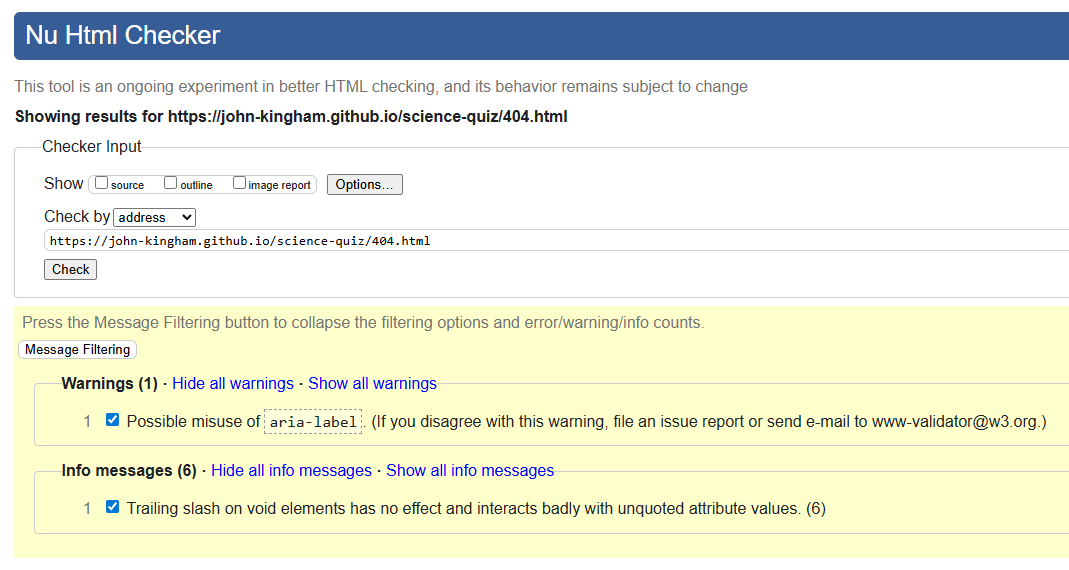
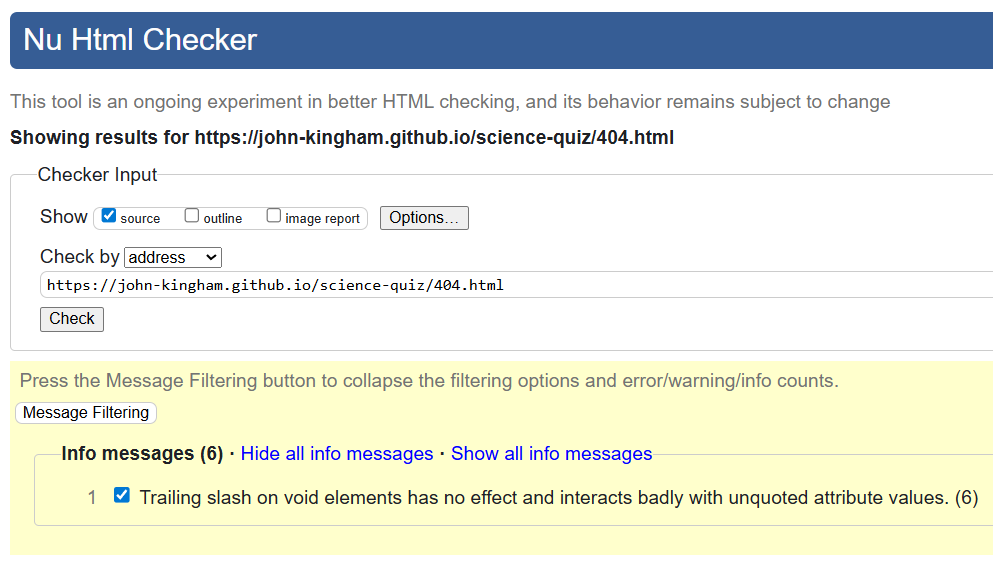
Add CSS validation tests to TESTING.md

diff --git a/TESTING.md b/TESTING.md
@@ -203,9 +203,11 @@ HTML was validated using the [W3C Markup Validation Service](https://validator.w
 
 #### index.html Validation
 
-There were no errors or warnings, but there were six identical info messages.
+*Errors: None*
 
-*Info: Trailing slash on void elements (not fixed)*
+*Warnings: None*
+
+*Info (6): Trailing slash on void elements (not fixed)*
 
 - Trailing slashes are inserted by the Prettier formatting extension that I used in VS Code. Given that the point of using an opinionated auto-formatter is to standardise formatting and avoid formatting arguments, I decided to leave these trailing slashes in place, even though they are not considered best practice.
 
@@ -213,20 +215,37 @@ There were no errors or warnings, but there were six identical info messages.
 
 #### 404.html Validation
 
-There were no errors, one warning and six identical info messages.
+*Error: None*
 
-*Warning: Possible misuse of aria-label (fixed)*
+*Warning (1): Possible misuse of aria-label (fixed)*
 
 - This was caused by an aria-label attribute on the body element that describes the body element's background image. However, screen readers don't typically announce the body, as body background images should be decorative rather than informational. 
 - I had already fixed this in index.html during development, but forgot to fix it in 404.html.
 - I fixed this by removing the aria-label. 
 
-![404.html validation result](./docs/testing/validation-html-404.png)
+*Info (6): Trailing slash on void elements (not fixed)*
 
+- Trailing slashes are inserted by the Prettier formatting extension that I used in VS Code. Given that the point of using an opinionated auto-formatter is to standardise formatting and avoid formatting arguments, I decided to leave these trailing slashes in place, even though they are not considered best practice.
+
+![404.html validation result](./docs/testing/validation-html-404.png)
 
 ### CSS Validation
 
-### JS Validation
+CSS validation was carried out using the [W3C CSS Validation Service](https://jigsaw.w3.org/css-validator/).
+
+#### styles.css
+
+*Error: None*
+
+![CSS validation errors](./docs/testing/validation-css-errors.png)
+
+*Warning (4): Due to their dynamic nature, CSS variables are currently not statically checked*
+
+- There are warnings about CSS variables not being statically checked by the validator. As the CSS variables have effectively been tested by the site's functional and visual tests, these warnings were ignored.
+
+![CSS validation warnings](./docs/testing/validation-css-warnings.png)
+
+### JavaScript Validation
 
 ## Contrast
 
